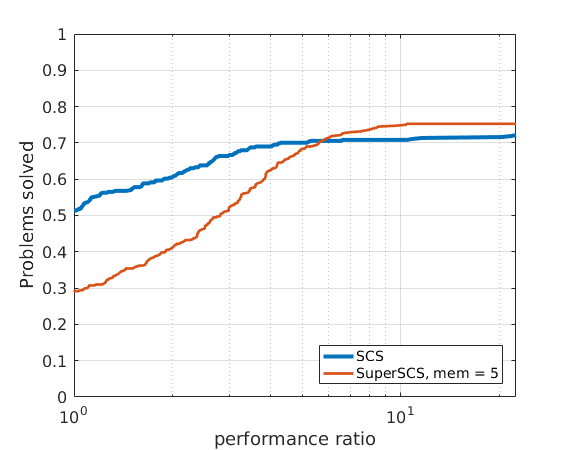
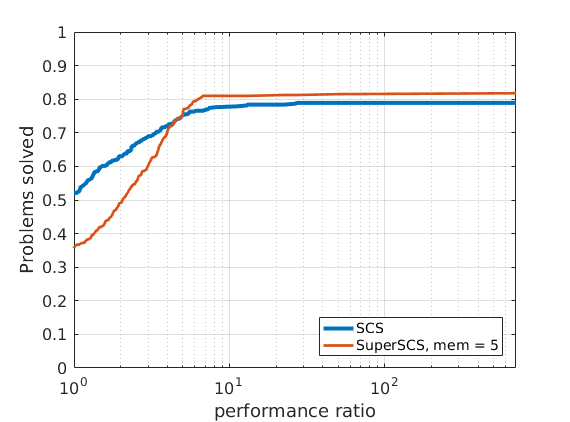
:wrench: :memo: Norm-constrained benchmarks Updated version number (DEV/RC) Updated benchmarks docs Set threshold on codecov.yml

diff --git a/tests/profiling_matlab/profile_runners/profile_runner_logreg.m b/tests/profiling_matlab/profile_runners/profile_runner_logreg.m
@@ -1,4 +1,37 @@
 function profile_runner_logreg(solver_options, id, runner_options)
+%PROFILE_RUNNER_LOGREG runs a collection of logistic regression problems by 
+%invoking the helper function profile_logreg. Logistic regression problems
+%are cast as conic problems with the exponential cone onto which the
+%projection is computed numerically.
+%
+%Syntax:
+%profile_runner_logreg(solver_options, id)
+%profile_runner_logreg(solver_options, id, runner_options)
+%
+%Input arguments:
+% id        experiment id (at the end of the experiment, the results are
+%           stored in a MAT file in tests/profiling_matlab/profile_results
+%           and are also registered in the file register.csv in that same
+%           folder).
+% solver_options a structure with solver options which is passed to
+%                profile_lasso
+% runner_options this is a structure with the experiment options; it is a
+%                structure with the following fields:
+%           reps  repetitions of each run (on random data) [default: 2]
+%         span_p  the range of `p` values to be tested [default: [80 120]]
+%         span_b  the values of `q` are computed as `b * p` where the span
+%                 of the values of `b` is specified by this parameter.
+%                 [Default: [20 50 100]]
+%       span_lam  the range of `lam` to be tested [default: [0.01 0.2 3]]
+%   span_density  the range of `density` [default: [0.1 0.25]]
+% span_w_density  the range of `w_density` to be tested [default: [0.1 3]]
+%     span_sigma  the range of `sigma`  to be tested [default: [0.1 3]]
+%
+% The argument `runner_options` is optional.
+%
+%See also
+%profile_logreg
+
 
 % LOGISTIC REGRESSION (288 problems)
 rng(1); % for reproducibility (so that every time this script is called,
@@ -6,9 +39,9 @@ rng(1); % for reproducibility (so that every time this script is called,
 records = []; info = []; data = []; K = []; pars = []; problem = [];
 
 reps = 2;
-span_p         = [10 50 100];
-span_b         = [20 100];
-span_lam       = [0.01 0.2 3];
+span_p         = [80 100];
+span_b         = [50 100 120];
+span_lam       = [10 20 50];
 span_density   = [0.05 0.1];
 span_w_density = [0.1 0.25]; 
 span_sigma     = [0.1 3];
@@ -38,7 +71,7 @@ for i=1:n_problems,
     problem.w_density = problem_data(i,6);
     
     fprintf(['RUNNING PROBLEM %3d/%3d [p=%3d, q=%5d, lambda=%1.4f, ', ... 
-        'density=%1.2f, w-density=%1.2f, sigma=%1.2f, r=%1d]\n'], ...
+        'density=%1.2f, w-density=%1.2f, sigma=%1.2f, r=%1d] '], ...
         i, n_problems, ...
         problem.p, problem.q, problem.lam, problem.density, problem.w_density, ...
         problem.sigma, problem_data(i,7));
@@ -49,6 +82,7 @@ for i=1:n_problems,
     out = struct('info', info, 'data', data, 'K', K, 'pars', pars, 'problem', problem);
     out.cost = info.solveTime/isempty(strfind(info.status, 'Inaccurate'));
     records = [records, out];
+    fprintf('%s in %.1fs\n', info.status, info.solveTime/1e3);
 end
 delete(solver_options.dumpfile);
 fname = [get_scs_rootdir() 'tests/profiling_matlab/profile_results/' ...

diff --git a/tests/profiling_matlab/experimenters/experimenter_logreg.m b/tests/profiling_matlab/experimenters/experimenter_logreg.m
@@ -2,36 +2,44 @@ clear; clc;
 rng('default')
 rng(1);
 load gong.mat;
-tol = 1e-4;
+tol = 1e-4;                 % tolerance
+max_iter = 15000;           % 15k iterations maximum
+max_time = 2.5 * 60 * 1e3;  % 
 
-%%
+%% LOGISTIC REGRESSION (288 problems)
+
 % 1. Run SCS
-id = 78234961000;
-solver_options = SuperSCSConfigFactory.scsConfig('tolerance', tol);
+id = 616010840;
+solver_options = SuperSCSConfig.scsConfig(...
+    'tolerance', tol, ...
+    'max_iters', max_iter, ...
+    'max_time_milliseconds', max_time);
 profile_runner_logreg(solver_options, id);
 sound(y);
 
 % 2. Run Broyden (k1,k2, not k0)
-solver_options = SuperSCSConfigFactory.broydenConfig('tolerance', tol, 'k0', 0);
-for mem = [50, 100]
+%    memories: 50, 100
+solver_options = SuperSCSConfig.broydenConfig(...
+    'tolerance', tol, ...
+    'max_iters', max_iter, ...
+    'max_time_milliseconds', max_time, ...
+    'k0', 0);
+for bro_mem = [50, 100]
     id = id + 1;
-    solver_options.memory = mem;
+    solver_options.memory = bro_mem;
     profile_runner_logreg(solver_options, id);
     sound(y);
 end
 
 % 3. Run Anderson's acceleration (k0,k1,k2)
-id = id + 1;
-solver_options = SuperSCSConfigFactory.andersonConfig('tolerance', tol);
-for mem = [5, 10, 15]
+%    memories: 10, 5, 15
+solver_options = SuperSCSConfig.andersonConfig(...
+    'tolerance', tol, ...
+    'max_iters', max_iter, ...
+    'max_time_milliseconds', max_time);
+for aa_mem = [10, 5, 15]
     id = id + 1;
-    solver_options.memory = mem;
+    solver_options.memory = aa_mem;
     profile_runner_logreg(solver_options, id);
     sound(y);
 end
-
-% 4. Run Broyden (k0,k1,k2: all activated)
-id = id + 1;
-solver_options = SuperSCSConfigFactory.andersonConfig('tolerance', tol);
-profile_runner_logreg(solver_options, id);
-sound(y);

diff --git a/tests/profiling_matlab/experimenters/experimenter_normcon.m b/tests/profiling_matlab/experimenters/experimenter_normcon.m
@@ -2,29 +2,45 @@ clear; clc;
 rng('default')
 rng(1);
 load gong.mat;
-tol = 1e-4;
+tol = 1e-4;              % tolerance
+max_iter = 15000;        % 15k iterations maximum
+max_time = 2 * 60 * 1e3; % 2 minutes max
 
 %%
 sound(y);
 
 % 1. Run SCS
-id = 281006000;
-solver_options = SuperSCSConfig.scsConfig('tolerance', tol);
+id = 41702210;
+solver_options = SuperSCSConfig.scsConfig(...
+    'tolerance', tol, ...
+    'max_iters', max_iter, ...
+    'max_time_milliseconds', max_time);
 profile_runner_normcon(solver_options, id);
 sound(y);
 
 % 2. Broyden, memory = 100, k0: deactivated
 id = id + 1;
-solver_options = SuperSCSConfig.broydenConfig('tolerance', tol, 'k0', 0, ...
-    'memory', 50);
-profile_runner_normcon(solver_options, id);
-sound(y);
+for b_mem = [50, 100]
+    solver_options = SuperSCSConfig.broydenConfig(...
+        'tolerance', tol, ...
+        'max_iters', max_iter, ...
+        'max_time_milliseconds', max_time,...
+        'k0', 0, ...
+        'memory', 50);
+    profile_runner_normcon(solver_options, id);
+    sound(y);
+    id = id + 1;
+end
 
 % 3. Anderson's acceleration, memory = 5, 10, 15, k0: activated
-for m = [10, 15]
+for a_mem = [5, 10, 15]
     id = id + 1;
-    solver_options = SuperSCSConfig.andersonConfig('tolerance', tol, 'k0', 1, ...
-        'memory', m, 'max_iters', 2800);
+    solver_options = SuperSCSConfig.andersonConfig(...
+        'tolerance', tol, ...
+        'k0', 1, ...
+        'memory', a_mem, ...
+        'max_iters', max_iter, ...
+        'max_time_milliseconds', max_time);
     profile_runner_normcon(solver_options, id);
     sound(y);
 end

diff --git a/pages/benchmarks_page.h b/pages/benchmarks_page.h
@@ -44,7 +44,24 @@
  *
  * \section benchmark-results Benchmark results 
  * 
+ * \subsection benchmark-parameters Benchmarking parameters
+ * 
  * In all benchmark results presented below we set the tolerance of \f$10^{-4}\f$.
+ * 
+ * The \ref #SCS_SETTINGS.max_iters "maximum number of iterations" was set to a 
+ * very high value above which we may confidently tell the problem is unlikely 
+ * to be solved (e.g., \f$10^6\f$).
+ * 
+ * Given that different algorithms (SCS, SuperSCS using Broyden directions and 
+ * SuperSCS using Anderson's acceleration) have a different per-iteration cost, 
+ * we allow every algorithm to run for a give time (see 
+ * \ref #SCS_SETTINGS.max_time_milliseconds "max_time_milliseconds"). 
+ * 
+ * After that maximum time has passed,
+ * if the algorithm has not converged we consider that it has failed to solve the
+ * problem.
+ * 
+ * 
  * 
  * \subsection benchmarks-lasso LASSO problems 
  * 

diff --git a/tests/profiling_matlab/experimenters/experimenter_lasso.m b/tests/profiling_matlab/experimenters/experimenter_lasso.m
@@ -11,7 +11,10 @@ sound(y);
 
 % 1. Run SCS
 id = 6288770;
-solver_options = SuperSCSConfig.scsConfig('tolerance', tol, 'max_iters', max_iter, 'max_time_milliseconds', max_time);
+solver_options = SuperSCSConfig.scsConfig(...
+    'tolerance', tol, ...
+    'max_iters', max_iter, ...
+    'max_time_milliseconds', max_time);
 profile_runner_lasso(solver_options, id);
 sound(y);
 
